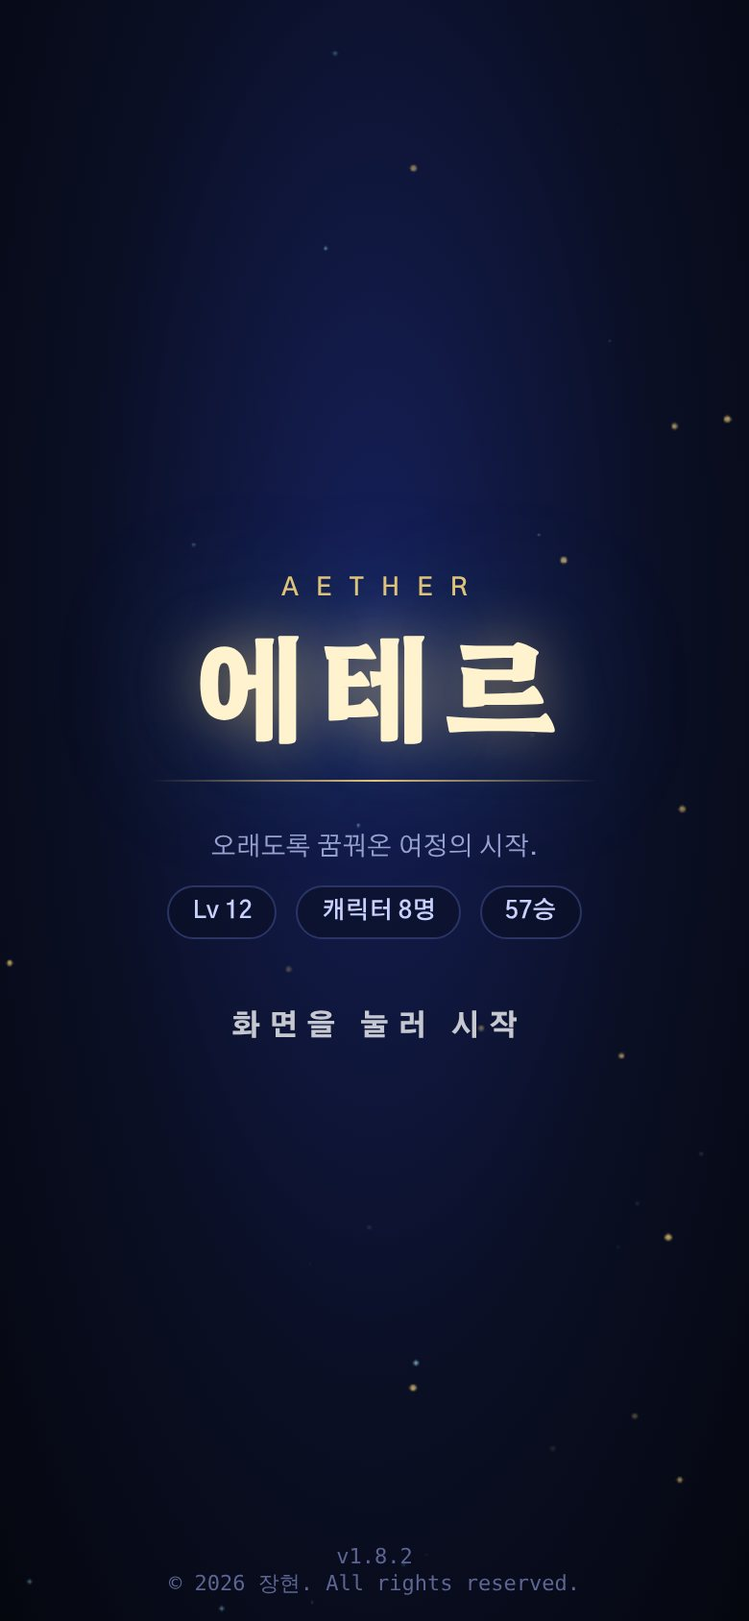
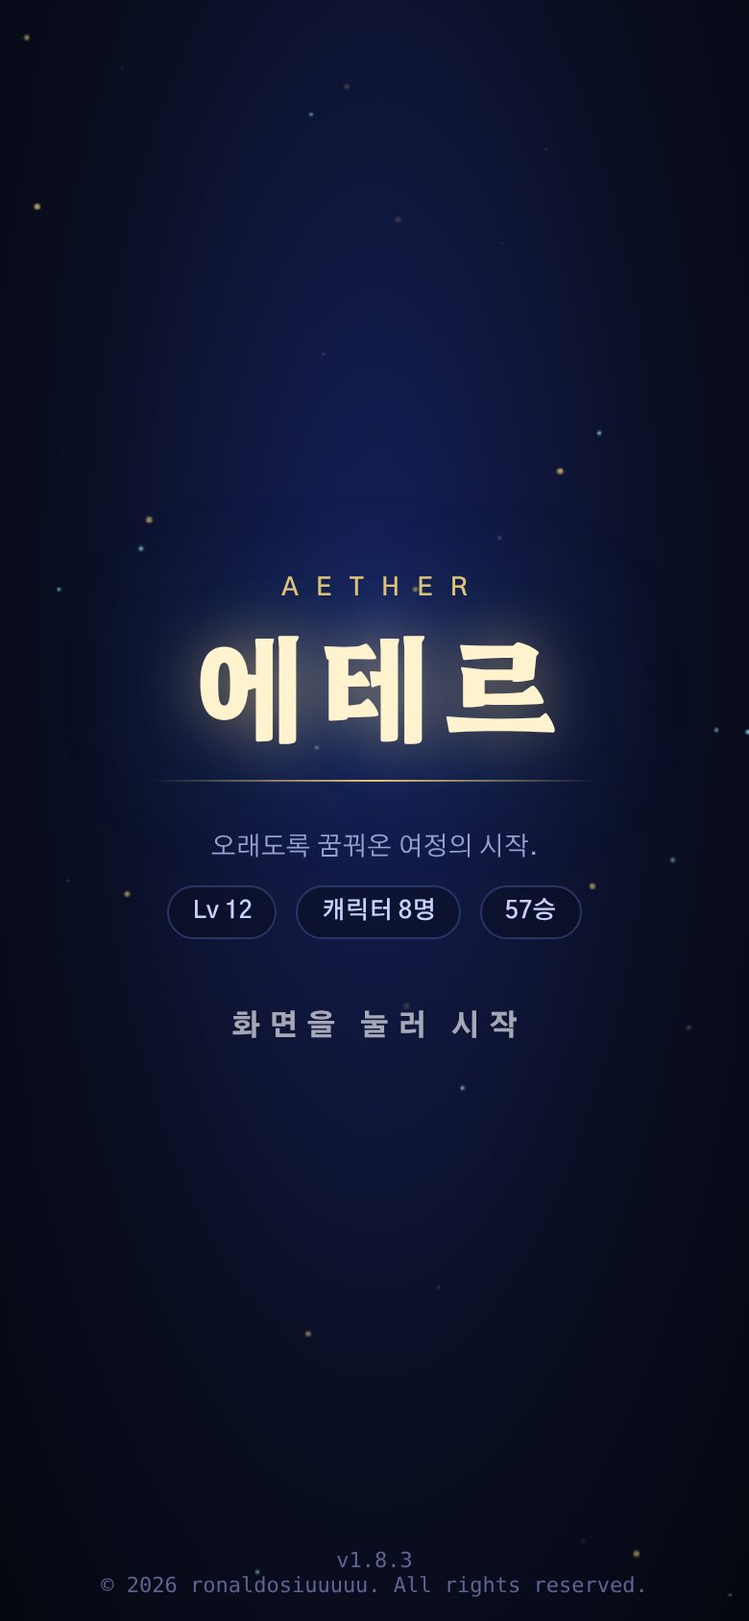
1.8.3: 보상 코드 원문 숨김, 저작권 표시 변경, README 정리
Claude-Session: https://claude.ai/code/session_018nyAW3XP9aVyA6V63xSJvx

diff --git a/game.js b/game.js
@@ -7,7 +7,7 @@
    5) 기록: 승패, 숙련, 업적(ACH에 한 줄). 이 기기에만 남는다(aetherProfile).
    6) 평가: 1대1에서 이기면 남은 체력으로 S·A·B·C. */
 /* 판 표기: 대규모 . 중규모 . 마이너(밸런스 · 버그). 고쳐 내보낼 때 여기와 PATCH(맨 아래), sw.js의 V, net.js의 APPV를 함께 올린다 */
-const VER='1.8.2';
+const VER='1.8.3';
 const PF=(()=>{ let d; try{ d=JSON.parse(localStorage.getItem('aetherProfile')||'null'); }catch(x){} d=d||{}; return Object.assign({w:0,l:0,streak:0,ch:{},ach:{},tw:{best:0,key:'',runs:0},mon:{},story:{},daily:{},dstreak:0,dwin:0,open:false,beat:{},own:{},re:{},coin:1500,star:0},d); })();
 for(const k of ['ei','vira']) PF.own[k]=PF.own[k]||1;
 const pfSave=()=>{ try{ localStorage.setItem('aetherProfile',JSON.stringify(PF)); }catch(x){} };
@@ -373,7 +373,7 @@ function tempRoll(){ const un=g=>gachaPool(g).filter(k=>!PF.own[k]); let pool=un
    +'.lvbar{display:flex;align-items:center;gap:8px;margin:-2px 2px 10px}.lvbar b{font:800 12.5px var(--mono);color:var(--gold);flex:none}.lvbar div{flex:1;height:5px;border-radius:3px;background:rgba(255,255,255,.08);overflow:hidden}.lvbar i{display:block;height:100%;background:linear-gradient(90deg,var(--gold),#fff3cf)}.lvbar span{font:11px var(--mono);color:var(--muted);flex:none}';
   document.head.appendChild(st);
   if(!/[?&]room=/.test(location.search)&&!/[?&]bc\b/.test(location.search)&&!navigator.webdriver){   /* 초대 링크로 들어올 때와 자동 시험에서는 건너뛴다 */ const L=lvInfo(),own=Object.keys(CH).filter(k=>!CH[k].re&&PF.own[k]).length,sv=twLoad(),el=document.createElement('div'); el.id='title';
-    el.innerHTML='<canvas></canvas><div class="en">AETHER</div><div class="tl">에테르</div><div class="rl"></div><div class="sb">오래도록 꿈꿔온 여정의 시작.</div><div class="pf"><span>Lv '+L.lv+'</span><span>캐릭터 '+own+'명</span><span>'+PF.w+'승</span>'+(sv?'<span>등반 '+sv.floor+'층 진행 중</span>':'')+'</div><div class="go2">'+(matchMedia('(pointer:fine)').matches?'눌러서 시작':'화면을 눌러 시작')+'</div><div class="vr">v'+VER+'<br>© 2026 장현. All rights reserved.</div>';
+    el.innerHTML='<canvas></canvas><div class="en">AETHER</div><div class="tl">에테르</div><div class="rl"></div><div class="sb">오래도록 꿈꿔온 여정의 시작.</div><div class="pf"><span>Lv '+L.lv+'</span><span>캐릭터 '+own+'명</span><span>'+PF.w+'승</span>'+(sv?'<span>등반 '+sv.floor+'층 진행 중</span>':'')+'</div><div class="go2">'+(matchMedia('(pointer:fine)').matches?'눌러서 시작':'화면을 눌러 시작')+'</div><div class="vr">v'+VER+'<br>© 2026 ronaldosiuuuuu. All rights reserved.</div>';
     document.body.appendChild(el); const cv=el.querySelector('canvas'),c=cv.getContext('2d'); let run=true,S=[]; const rz=()=>{ cv.width=innerWidth; cv.height=innerHeight; S=Array.from({length:Math.min(110,Math.round(innerWidth*innerHeight/9000))},()=>({x:Math.random()*cv.width,y:Math.random()*cv.height,r:Math.random()*1.4+.3,v:Math.random()*.25+.05,p:Math.random()*6.28})); }; rz(); addEventListener('resize',rz);
     const tick=t=>{ if(!run) return; c.clearRect(0,0,cv.width,cv.height); for(const s of S){ s.y-=s.v; if(s.y<-4){ s.y=cv.height+4; s.x=Math.random()*cv.width; } c.globalAlpha=.35+.45*Math.sin(t/900+s.p); c.fillStyle=s.r>1.2?'#e3c377':'#9fe9ff'; c.beginPath(); c.arc(s.x,s.y,s.r,0,7); c.fill(); } requestAnimationFrame(tick); }; requestAnimationFrame(tick);
     const go=()=>{ if(el.classList.contains('out')) return; el.classList.add('out'); try{ if(typeof audioOn==='function') audioOn(); sfx('ui'); }catch(x){} setTimeout(()=>{ run=false; el.remove(); removeEventListener('resize',rz); },560); }; el.addEventListener('pointerup',go); addEventListener('keydown',function kd(e){ if(e.key==='Enter'||e.key===' '){ go(); removeEventListener('keydown',kd); } }); } }
@@ -425,7 +425,7 @@ PF.cnt=Object.assign({play:0,pull:0,claim:0,mw:0,raidw:0,sr:0,dmg:0,coop:0,cls:{
   achCheck({}); }
 
 /* ═════ 보상 코드 ═════ 기록 화면의 코드 칸에 적는다. 한 번만 듣는다 */
-const CODES={'호날두시우':{coin:15000}};
+const CODES={};   /* 코드 원문은 두지 않는다(아래 CODEH에 암호화한 값만) */
 function redeem(v){ const k=String(v||'').replace(/\s+/g,''),c=CODES[k]; if(!c) return false; PF.codes=PF.codes||{}; if(PF.codes[k]){ toast('이미 쓴 코드다'); return true; } PF.codes[k]=Date.now(); PF.coin+=c.coin||0; PF.star+=c.star||0; pfSave(); sfx('win'); toast('코드 보상 · 코인 +'+(c.coin||0).toLocaleString()+(c.star?' · 별무리 +'+c.star:''),4200); hubCard(); return true; }
 { const dr1=drawRec; drawRec=function(){ dr1(); const rs=$('rec-reset'); if(rs&&!$('code-in')) rs.insertAdjacentHTML('beforebegin','<h2>보상 코드</h2><div class="row"><input type="text" id="code-in" placeholder="코드를 적는다" autocomplete="off" style="flex:2"><button type="button" id="code-go">받기</button></div>'); };
   document.addEventListener('click',e=>{ if(!e.target.closest('#code-go')) return; const el=$('code-in'); if(!el) return; if(!el.value.trim()) return toast('코드를 적는다'); if(redeem(el.value)){ el.value=''; drawRec(); } else toast('없는 코드다'); });
@@ -471,7 +471,8 @@ document.addEventListener('click',e=>{ const t=e.target.closest('[data-re2]'); i
 const nickOf=()=>{ let v=''; try{ v=localStorage.getItem('aetherName')||''; }catch(x){} return (v||($('n-name')&&$('n-name').value)||'').trim().slice(0,13)||'나'; };
 /* ── 패치 내역: 새 판을 내보낼 때 맨 위에 한 덩이를 더한다 ── */
 const PATCH=[
- ['1.8.2','2026-11',['보상 코드 「이계의눈과마주하라」: 닉네임을 한 번 다시 정할 수 있다(최대 13자).']],
+ ['1.8.3','2026-11',['보상 코드 처리 방식을 정리했다.','저작권 표시를 바꿨다.']],
+ ['1.8.2','2026-11',['새 보상 코드 추가.']],
  ['1.8.1','2026-11',['레이드 보스가 받는 체력 비례(%) 피해: 소란 · 집결 50% · 결속 · 군주 25% · 위신 12.5%만 들어간다. 스킬 안의 체력 비례분과 따로 계산되는 최체비 · 잃체비 · 현체비 피해 모두 해당.']],
  ['1.8.0','2026-11',['모든 플레이 기록을 한 번 초기화했다(코인 · 캐릭터 · 전적 · 업적 · 등반 · 이야기 · 닉네임). 조합 캐릭터와 화면 · 소리 설정은 남는다.','뽑기 확률: 고화 75 · 서사 22 · 전설 3.','닉네임은 처음 한 번 정하면 바꿀 수 없다.']],
  ['1.7.2','2026-11',['별무리의 흔적으로 원하는 캐릭터를 골라 데려오던 것을 없앴다.','대신 「별무리 뽑기」: 등급을 고르면 그 등급에서 아직 없는 캐릭터 하나가 무작위로 나온다. 값은 고화 30 · 서사 90 · 전설 240(예전 5 · 15 · 40). 가방 → 별무리 뽑기.']],
@@ -525,20 +526,20 @@ function achScreen(){ const old=document.getElementById('achv'); if(old) old.rem
   const bs1=backStep; backStep=function(){ const k=document.getElementById('achv'); if(k){ k.remove(); return true; } return bs1(); }; }
 
 /* ════════════════ 1.2.0 ════════════════ */
-/* ── 보상 코드 셋: 비요가른(코인 15000) · 일곱 별의 화신(별무리 40) · 만마의 궁전(모두 열기 켬/끔). 띄어쓰기는 없어도 된다 ── */
-delete CODES['호날두시우']; Object.assign(CODES,{'비요가른':{coin:15000},'일곱별의화신':{star:40},'만마의궁전':{palace:1}});
-PF.codes=PF.codes||{}; if(PF.codes['호날두시우']&&!PF.codes['비요가른']){ PF.codes['비요가른']=PF.codes['호날두시우']; delete PF.codes['호날두시우']; }
-/* 모두 열기 단추는 없앴다. 예전에 단추로 열어 둔 것은 뽑기 방식으로 돌린다(만마의 궁전으로 연 것만 남는다) */
+/* ── 보상 코드: 원문은 코드에 두지 않는다. 아래 1.8.3 블록의 CODEH(암호화한 값)만 본다 ── */
+
+PF.codes=PF.codes||{};
+/* 모두 열기 단추는 없앴다. 예전에 단추로 열어 둔 것은 뽑기 방식으로 돌린다(보상 코드로 연 것만 남는다) */
 if(PF.open&&!PF.palace){ PF.open=false; pfSave(); }
-{ const rd0=redeem; redeem=function(v){ const k=String(v||'').replace(/\s+/g,''); if(k!=='만마의궁전') return rd0(v);
-    PF.open=!PF.open; PF.palace=PF.open?1:0; pfSave(); sfx('win'); toast(PF.open?'만마의 궁전 · 모든 캐릭터가 열렸다 (한 번 더 적으면 닫힌다)':'만마의 궁전 · 닫혔다. 다시 뽑기 방식이다',4200);
-    if(!PF.open&&locked(kOf('me'))){ sel.me='ei'; sel.meR=false; } drawSel(); hubCard(); if(typeof drawBag==='function') drawBag(); return true; }; }
+
+
+
 
 /* ── 가방 탭: 뽑기 · 파편 · 재림 · 숙련 · 데려오기를 한곳에 ── */
 function giveShard(k,n){ PF.shard=PF.shard||{}; PF.dup=PF.dup||{}; PF.shard[k]=(PF.shard[k]||0)+n; let got=''; while(PF.shard[k]>=SHARDN){ PF.shard[k]-=SHARDN; if(PF.own[k]){ PF.dup[k]=(PF.dup[k]||0)+1; got=' (중복 +1)'; } else { PF.own[k]=Date.now(); got=' (캐릭터 획득)'; } } return CH[k].name.split(', ')[1]+' 파편 +'+n+got; }
 function drawBag(){ const el=$('bag'); if(!el) return; const pb=(v,m,col)=>'<div class="mbar"><i style="width:'+Math.min(100,Math.round(100*v/m))+'%;background:'+(col||'var(--aether)')+'"></i></div>',nm=k=>esc(CH[k].name.split(', ')[1]);
   const base=Object.keys(CH).filter(k=>!CH[k].re&&!CH[k].built&&!CH[k].custom),own=base.filter(k=>PF.own[k]);
-  let h='<h2>보유</h2><div class="pl"><b>코인 '+PF.coin.toLocaleString()+'</b><span style="color:var(--muted)">별무리의 흔적 '+PF.star+'</span></div><div class="pl"><b>캐릭터 '+own.length+' / '+base.length+'</b><span style="color:var(--muted)">재림 '+Object.keys(PF.re||{}).length+'명</span></div>'+(PF.open?'<p class="note">만마의 궁전이 열려 있다. 지금은 모든 캐릭터를 쓸 수 있다.</p>':'');
+  let h='<h2>보유</h2><div class="pl"><b>코인 '+PF.coin.toLocaleString()+'</b><span style="color:var(--muted)">별무리의 흔적 '+PF.star+'</span></div><div class="pl"><b>캐릭터 '+own.length+' / '+base.length+'</b><span style="color:var(--muted)">재림 '+Object.keys(PF.re||{}).length+'명</span></div>'+(PF.open?'<p class="note">모든 캐릭터가 열려 있다(보상 코드).</p>':'');
   h+='<h2>뽑기</h2><div class="row"><button type="button" data-pull="1"'+(PF.coin<PULL?' style="opacity:.5"':'')+'>1번 뽑기<small style="display:block;font-size:10.5px;opacity:.75">코인 '+PULL.toLocaleString()+'</small></button><button type="button" data-pull="10"'+(PF.coin<PULL10?' style="opacity:.5"':'')+'>10번 뽑기<small style="display:block;font-size:10.5px;opacity:.75">코인 '+PULL10.toLocaleString()+' · 서사 이상 하나 보장</small></button></div>';
   h+='<p class="note" style="white-space:pre-line">처음 나온 캐릭터는 그 자리에서 바로 얻는다.\n이미 가진 캐릭터가 나오면 파편이 3~5개 나온다. 파편 '+SHARDN+'개는 \'중복\' 하나가 되고, 재림에 쓴다.\n확률: '+GRATE.map(g=>g[0]+' '+g[1]+'%').join(' · ')+' (신화 · 히든은 나오지 않는다) · 전설 파편 보장까지 '+Math.max(0,PITY-(PF.pity||0))+'번</p>';
   const S=Object.keys(PF.shard||{}).filter(k=>CH[k]&&PF.shard[k]>0).sort((a,b)=>PF.shard[b]-PF.shard[a]),D=Object.keys(PF.dup||{}).filter(k=>CH[k]&&PF.dup[k]>0);
@@ -613,7 +614,7 @@ const bagData=()=>{ const base=Object.keys(CH).filter(k=>!CH[k].re&&!CH[k].built
    R:own.filter(k=>CH[k+'_r']&&!PF.re[k]).sort((a,b)=>(reNeed(b).ok-reNeed(a).ok)||(((PF.ch[b]||{}).w||0)+(PF.dup[b]||0)*5)-(((PF.ch[a]||{}).w||0)+(PF.dup[a]||0)*5)),L:Object.entries(PF.ch).filter(x=>CH[x[0]]).sort((a,b)=>b[1].w-a[1].w)}; };
 drawBag=function(){ const el=$('bag'); if(!el) return; const B=bagData(),t=(id,name,sub,n)=>'<button type="button" class="tool" data-bag="'+id+'">'+(n?'<i>'+n+'</i>':'')+'<b>'+name+'</b><small>'+sub+'</small></button>';
   el.innerHTML='<div class="wal"><div><b>'+PF.coin.toLocaleString()+'</b><small>코인</small></div><div><b>'+PF.star+'</b><small>별무리의 흔적</small></div><div><b>'+B.own.length+' / '+B.base.length+'</b><small>캐릭터</small></div></div>'
-   +(PF.open?'<p class="note">만마의 궁전이 열려 있다. 지금은 모든 캐릭터를 쓸 수 있다.</p>':'')
+   +(PF.open?'<p class="note">모든 캐릭터가 열려 있다(보상 코드).</p>':'')
    +'<h2>뽑기</h2><div class="pullrow"><button type="button" data-pull="1"'+(PF.coin<PULL?' class="low"':'')+'><b>1번 뽑기</b><small>코인 '+PULL.toLocaleString()+'</small></button><button type="button" data-pull="10"'+(PF.coin<PULL10?' class="low"':'')+'><b>10번 뽑기</b><small>코인 '+PULL10.toLocaleString()+' · 서사 이상 보장</small></button></div>'
    +'<p class="sub" style="margin:8px 2px 0">처음 나온 캐릭터는 바로 얻는다 · 가진 캐릭터는 파편 3~5개 · 전설 파편 보장까지 '+Math.max(0,PITY-(PF.pity||0))+'번</p>'
    +'<h2>가방</h2><div class="bagg">'+t('sh','파편',B.S.length?B.S.length+'명의 파편을 모으는 중':'아직 없다',B.S.filter(k=>PF.shard[k]>=SHARDN-2).length?'곧 '+B.S.filter(k=>PF.shard[k]>=SHARDN-2).length:'')
@@ -1199,13 +1200,30 @@ document.addEventListener('click',e=>{ const b=e.target.closest('[data-sg],[data
   new MutationObserver(lock).observe(document.body,{childList:true}); /* 닉네임 창이 닫히면 바로 잠근다 */
   const st=document.createElement('style'); st.textContent='#n-name.locked{opacity:.75;cursor:not-allowed}'; document.head.appendChild(st); }
 
-/* ════ 1.8.2 보상 코드 · 이계의눈과마주하라: 닉네임을 한 번 다시 정한다(2~13자). 새 이름을 정해야 코드가 쓰인 것으로 친다 ════ */
-CODES['이계의눈과마주하라']={rename:1};
+/* ════ 1.8.2 닉네임 다시 정하기(보상 코드로 연다, 2~13자). 새 이름을 정해야 코드가 쓰인 것으로 친다 ════ */
 function renameScreen(){ const old=document.getElementById('renv'); if(old) old.remove(); const d=document.createElement('div'); d.className='overlay'; d.id='renv'; d.style.zIndex=46; const cur=nickOf();
   d.innerHTML='<div class="wrap">'+head('RENAME','닉네임 다시 정하기','지금 · '+esc(cur))+'<div class="row"><input type="text" id="rn-in" maxlength="13" placeholder="새 닉네임 (2~13자)" autocomplete="off" style="flex:1;height:52px;font-size:17px;text-align:center"></div><p class="note">이 코드로 딱 한 번 바꿀 수 있다. 바꾼 뒤에는 다시 바꿀 수 없다.</p><div class="dock"><button class="go" id="rn-ok" type="button">이 이름으로 바꾼다</button><button class="ghost" id="rn-no" type="button">그만둔다</button></div></div>';
   document.body.appendChild(d); const inp=d.querySelector('#rn-in');
   d.querySelector('#rn-no').onclick=()=>d.remove();
-  d.querySelector('#rn-ok').onclick=()=>{ const v=inp.value.trim().slice(0,13); if(v.length<2) return toast('닉네임은 2자 이상'); if(v===cur) return toast('지금 이름과 같다'); try{ localStorage.setItem('aetherName',v); }catch(x){} PF.codes=PF.codes||{}; PF.codes['이계의눈과마주하라']=Date.now(); pfSave(); const n=$('n-name'); if(n){ n.value=v; n.readOnly=true; } if(NET.client||NET.host) try{ NET.pick(); }catch(x){} d.remove(); sfx('win'); toast('닉네임을 바꿨다 · '+v,3000); };
+  d.querySelector('#rn-ok').onclick=()=>{ const v=inp.value.trim().slice(0,13); if(v.length<2) return toast('닉네임은 2자 이상'); if(v===cur) return toast('지금 이름과 같다'); try{ localStorage.setItem('aetherName',v); }catch(x){} PF.codes=PF.codes||{}; PF.codes[CODE_RENAME]=Date.now(); pfSave(); const n=$('n-name'); if(n){ n.value=v; n.readOnly=true; } if(NET.client||NET.host) try{ NET.pick(); }catch(x){} d.remove(); sfx('win'); toast('닉네임을 바꿨다 · '+v,3000); };
   inp.addEventListener('keydown',e=>{ if(e.key==='Enter'&&!e.isComposing) d.querySelector('#rn-ok').click(); }); setTimeout(()=>inp.focus(),50); }
-{ const rd2=redeem; redeem=function(v){ const k=String(v||'').replace(/\s+/g,''); if(k!=='이계의눈과마주하라') return rd2(v); PF.codes=PF.codes||{}; if(PF.codes[k]){ toast('이미 쓴 코드다'); return true; } renameScreen(); return true; };
+{
   const bs6=backStep; backStep=function(){ const r=document.getElementById('renv'); if(r){ r.remove(); return true; } return bs6(); }; }
+
+/* ════════════════ 1.8.3 보상 코드: 원문 없이 암호화한 값(SHA-256 앞 24자리)만 둔다 ════════════════ */
+function sha256(str){ const K=[0x428a2f98,0x71374491,0xb5c0fbcf,0xe9b5dba5,0x3956c25b,0x59f111f1,0x923f82a4,0xab1c5ed5,0xd807aa98,0x12835b01,0x243185be,0x550c7dc3,0x72be5d74,0x80deb1fe,0x9bdc06a7,0xc19bf174,0xe49b69c1,0xefbe4786,0x0fc19dc6,0x240ca1cc,0x2de92c6f,0x4a7484aa,0x5cb0a9dc,0x76f988da,0x983e5152,0xa831c66d,0xb00327c8,0xbf597fc7,0xc6e00bf3,0xd5a79147,0x06ca6351,0x14292967,0x27b70a85,0x2e1b2138,0x4d2c6dfc,0x53380d13,0x650a7354,0x766a0abb,0x81c2c92e,0x92722c85,0xa2bfe8a1,0xa81a664b,0xc24b8b70,0xc76c51a3,0xd192e819,0xd6990624,0xf40e3585,0x106aa070,0x19a4c116,0x1e376c08,0x2748774c,0x34b0bcb5,0x391c0cb3,0x4ed8aa4a,0x5b9cca4f,0x682e6ff3,0x748f82ee,0x78a5636f,0x84c87814,0x8cc70208,0x90befffa,0xa4506ceb,0xbef9a3f7,0xc67178f2];
+  const b=Array.from(new TextEncoder().encode(str)),l=b.length*8; b.push(0x80); while(b.length%64!==56) b.push(0); for(let i=7;i>=0;i--) b.push(i>3?0:(l>>>(i*8))&255);
+  let H=[0x6a09e667,0xbb67ae85,0x3c6ef372,0xa54ff53a,0x510e527f,0x9b05688c,0x1f83d9ab,0x5be0cd19]; const r=(x,n)=>(x>>>n)|(x<<(32-n)),w=new Array(64);
+  for(let o=0;o<b.length;o+=64){ for(let i=0;i<16;i++) w[i]=(b[o+i*4]<<24|b[o+i*4+1]<<16|b[o+i*4+2]<<8|b[o+i*4+3])>>>0; for(let i=16;i<64;i++){ const s0=r(w[i-15],7)^r(w[i-15],18)^(w[i-15]>>>3),s1=r(w[i-2],17)^r(w[i-2],19)^(w[i-2]>>>10); w[i]=(w[i-16]+s0+w[i-7]+s1)>>>0; }
+    let [a,bb,c,d,e,f,g2,h]=H; for(let i=0;i<64;i++){ const t1=(h+(r(e,6)^r(e,11)^r(e,25))+((e&f)^(~e&g2))+K[i]+w[i])>>>0,t2=((r(a,2)^r(a,13)^r(a,22))+((a&bb)^(a&c)^(bb&c)))>>>0; h=g2; g2=f; f=e; e=(d+t1)>>>0; d=c; c=bb; bb=a; a=(t1+t2)>>>0; }
+    H=H.map((x,i)=>(x+[a,bb,c,d,e,f,g2,h][i])>>>0); } return H.map(x=>x.toString(16).padStart(8,'0')).join(''); }
+const codeKey=v=>sha256('aether|'+String(v||'').replace(/\s+/g,'')).slice(0,24);
+const CODEH={'152d17f3b081ecf2410acd02':{coin:15000},'1d9a64f3cd9d8565d89eb9c6':{star:40},'b311b59e8c65142c24e4115d':{palace:1},'83f1671a476f11c6475e2b70':{rename:1}},CODE_RENAME='83f1671a476f11c6475e2b70';
+/* 예전에 원문으로 적어 둔 '쓴 코드' 기록을 암호화한 값으로 옮긴다(아주 옛 코드는 첫 코인 코드로 친다) */
+{ PF.codes=PF.codes||{}; let ch=false; for(const k of Object.keys(PF.codes)){ if(/^[0-9a-f]{24}$/.test(k)) continue; let h=codeKey(k); if(h==='deb6c2a784a77949da9bbf89') h='152d17f3b081ecf2410acd02'; if(!PF.codes[h]) PF.codes[h]=PF.codes[k]; delete PF.codes[k]; ch=true; } if(ch) pfSave(); }
+redeem=function(v){ const h=codeKey(v),c=CODEH[h]; if(!c) return false; PF.codes=PF.codes||{};
+  if(c.palace){ PF.open=!PF.open; PF.palace=PF.open?1:0; pfSave(); sfx('win'); toast(PF.open?'모든 캐릭터가 열렸다 (같은 코드를 한 번 더 적으면 닫힌다)':'닫혔다 · 다시 뽑기 방식이다',4200); if(!PF.open&&locked(kOf('me'))){ sel.me='ei'; sel.meR=false; } drawSel(); hubCard(); if(typeof drawBag==='function') drawBag(); return true; }
+  if(PF.codes[h]){ toast('이미 쓴 코드다'); return true; }
+  if(c.rename){ renameScreen(); return true; }
+  PF.codes[h]=Date.now(); PF.coin+=c.coin||0; PF.star+=c.star||0; pfSave(); sfx('win'); toast('코드 보상 · '+(c.coin?'코인 +'+c.coin.toLocaleString():'')+(c.coin&&c.star?' · ':'')+(c.star?'별무리 +'+c.star:''),4200); hubCard(); return true; };
+{ const q=$('q'); if(q) q.addEventListener('input',()=>{ if(CODEH[codeKey(q.value)]&&redeem(q.value)){ q.value=''; drawSel(); } }); }

diff --git a/sw.js b/sw.js
@@ -2,7 +2,7 @@
    - 앱 파일: 저장해 둔 것을 바로 쓰고, 뒤에서 새 것을 받아 둔다. 판(V)이 올라가면 화면이 알아서 새 판으로 다시 열린다.
    - 글꼴(구글): 한 번 받은 것은 저장해 두고 계속 쓴다.
    파일을 더하거나 빼면 FILES를 고치고 V의 숫자를 올린다. */
-const V='aether-1.8.2';
+const V='aether-1.8.3';
 const FILES=['./','bench.js','build.js','kits.js','wkits1.js','wkits2.js','pkits.js','foes.js','docboss.js','game.js','story2.js','raid.js','lore.js','forge.js','guide.js','net.js','peerjs.min.js','extra.js','cardtext6.js','brain.js','brain2.js','brain3.js','cardtext.js','cardtext2.js','cardtext3.js','cardtext4.js','cardtext5.js','chars.js','feel.js','text.js','flair.js','fxs.js','icons/apple-180.png','icons/icon-192.png','icons/icon-512.png','icons/maskable-512.png','index.html','relay.json','배포.md','jeon1.js','jeon2.js','jeon3.js','look.js','manifest.json','maps.js','rebirth.js','seosa1.js','seosa2.js','seosa3.js','sinhwa.js','team.js'];
 self.addEventListener('install',e=>{ e.waitUntil(caches.open(V).then(c=>c.addAll(FILES.map(f=>new Request(f,{cache:'reload'})))).then(()=>self.skipWaiting())); });
 self.addEventListener('activate',e=>{ e.waitUntil(caches.keys().then(ks=>Promise.all(ks.filter(k=>k!==V&&k!=='aether-fonts').map(k=>caches.delete(k)))).then(()=>self.clients.claim())); });

diff --git a/net.js b/net.js
@@ -15,7 +15,7 @@ function ser(v,d){ if(v===null||v===undefined) return undefined; const t=typeof 
 const loadPeer=()=>new Promise((ok,no)=>{ if(window.Peer) return ok(); const s=document.createElement('script'); s.src='peerjs.min.js'; s.onload=()=>window.Peer?ok():no(new Error('PeerJS')); s.onerror=()=>no(new Error('peerjs.min.js를 못 읽음')); document.head.appendChild(s); });
 const ROOM=c=>'aether-room-'+c;
 /* 서로 같은 판이어야 화면이 맞는다. 파일을 고쳐 내보낼 때 sw.js의 V와 함께 올린다 */
-const APPV=182;
+const APPV=183;
 /* Metered(무료 몫이 있는 중계 서비스)의 주소 묶음. 아이디·비밀번호만 적으면 이 주소가 들어간다 */
 const METERED='turn:standard.relay.metered.ca:80, turn:standard.relay.metered.ca:80?transport=tcp, turn:standard.relay.metered.ca:443, turns:standard.relay.metered.ca:443?transport=tcp';
 /* 길 찾기(STUN)는 여러 곳에 묻는다. 통신사 데이터끼리처럼 직접 길이 안 뚫리는 경우에는 중계 서버(TURN)가 있어야 하고, '함께' 화면에서 적어 넣을 수 있다 */

diff --git a/README.md b/README.md
@@ -11,7 +11,7 @@
 
 설치 없이 휴대폰 · PC 브라우저에서 바로 된다. 홈 화면에 추가하면 앱처럼 쓸 수 있다(PWA).
 
-![버전](https://img.shields.io/badge/버전-1.8.2-e3c377?style=flat-square) ![캐릭터](https://img.shields.io/badge/캐릭터-133명-7fe9ff?style=flat-square) ![레이드 보스](https://img.shields.io/badge/레이드_보스-31종-ff7d8c?style=flat-square) ![맵](https://img.shields.io/badge/맵-13개-8fd0a0?style=flat-square)
+![버전](https://img.shields.io/badge/버전-1.8.3-e3c377?style=flat-square) ![캐릭터](https://img.shields.io/badge/캐릭터-133명-7fe9ff?style=flat-square) ![레이드 보스](https://img.shields.io/badge/레이드_보스-31종-ff7d8c?style=flat-square) ![맵](https://img.shields.io/badge/맵-13개-8fd0a0?style=flat-square)
 
 </div>
 
@@ -69,89 +69,8 @@
 
 ---
 
-<details>
-<summary><b>개발자용: 파일 구성</b></summary>
-
-| 파일 | 내용 |
-|---|---|
-| index.html | 화면·메뉴·엔진(이동, 피해, 상태, 그리기, 소리, 입력) |
-| chars.js | 고화 26명 + 마나난·시먼·네르티나·밀리오 |
-| seosa1~3.js | 서사 29명 (seosa3 끝에 겉모습·진행·상태 표) |
-| jeon1~3.js | 전설 24명 (jeon3 끝에 겉모습·진행·상태 표) |
-| rebirth.js | 재림 32명 |
-| sinhwa.js | 신화 3명 + 재림 3명(아르트랑 맥스 · 여명의 훼광 아서 · 궁창의 혼재 아에르) |
-| extra.js | 뒤에 더한 12명: 듀크 · 울펜하임 · 테오르 · 알비온 · 키비 · 비비 · 스타트 + 히든 아몬 · 알론소 · 라사 · 천갈 · 나가토 (겉모습·상태·운용법 포함) |
-| team.js | 다인전에서 아군에게 주는 효과 |
-| look.js · fxs.js | 겉모습(몸·무기) · 스킬 연출과 소리 |
-| brain.js · brain2.js · brain3.js | 컴퓨터 운용법 |
-| cardtext*.js | 카드 원문(스킬 보기 화면용). cardtext6.js가 extra.js의 12명 |
-| maps.js | 맵 자료(크기·색·기둥·발판) |
-| feel.js | 타격감·스킬 윤곽선·속성 타격음·궁극기 경고(훅으로 붙인 덧붙임 파일) |
-| bench.js | 컴퓨터끼리 대전표(승률 재기) |
-| raid.js | 레이드의 보스 몬스터 셋(마석 골렘 · 초 거대 마석 골렘 · 여덟 머리의 뱀)과 전리품 |
-| lore.js | 세계관 글(노션 정리본에서 뽑음) |
-| forge.js · guide.js | 카드로 캐릭터 만들기 · 길잡이 |
-| `build.js` | 조합 캐릭터 만들기(스킬 네 칸 + 권능 3 + 특전 2 + 장비 3). 권능 `POWERS`(카드 권능은 손으로, 시험장 권능은 `[이름, 단계, 수치 묶음]` 한 줄), 장비 `GEAR`(무기 · 방어구 · 장신구, 공설~신화), 수치 묶음의 낱말은 `MODTXT` |
-| `kits.js` | 무기·권능 스킬 묶음의 틀(`defKit`). 키트의 스킬은 조합 캐릭터의 '가져오기'에 나오고, 같은 이름의 장비·권능을 달면 빈 단추(x1~x4)에 붙으며 패시브가 함께 온다 |
-| `wkits1.js` `wkits2.js` | 카드 무기의 스킬(2024~2025 · 2026). 수치는 카드 그대로, 정한 것은 각 키트의 `note` |
-| `pkits.js` | 카드의 활성 권능(神聖 - 힘 · 영웅 · 정복, 천변만화의 별 등) |
-| `foes.js` | 시험장에서 만든 적 25종(`MOBS`)과 보스 10종(`BOSSES`). 한 줄씩 적는 자료 꼴. 등반 보스 순서는 `TBOSS` |
-| `game.js` | 모험: 등반(보상 · 갈림길 · 상인 · 보스), 이야기(`STORY`), 오늘의 도전, 등급 해금(`NEEDS`), 기록 · 업적(`ACH`), 승리 평가. 이 기기에만 남는다(`aetherProfile`, `aetherTower`) |
-| net.js · peerjs.min.js | 친구와 함께(P2P 방). PeerJS 1.5.4(MIT)를 그대로 넣었다 |
-
-화면: 휴대폰 가로·세로, PC 모두 된다. 판을 시작할 때 화면이 넓으면 경기장이 눕고(38×26, 내가 왼쪽), 길면 선다(26×38, 내가 아래). 설정에서 방향을 자동·가로 고정·세로 고정으로 고른다.
-
-## 휴대폰에 앱으로 깔기 (PWA)
-
-https 주소로 올린 뒤 휴대폰 크롬(또는 삼성 인터넷)으로 열면 고르는 화면 아래에 '홈 화면에 앱으로 깔기' 단추가 뜬다(안 뜨면 브라우저 메뉴의 '홈 화면에 추가' / '앱 설치'). 깔고 나면 주소창 없이 전체 화면으로 뜨고, 인터넷이 없어도 돈다.
-
-- `manifest.json` 앱 이름·아이콘·전체 화면 선언, `sw.js` 오프라인 저장, `icons/` 아이콘.
-- 인터넷이 될 때는 늘 새 파일을 받아 쓰므로, 올려 둔 파일을 고치면 앱을 다시 열 때 바로 반영된다.
-- 파일을 새로 더하면 `sw.js`의 `FILES`에 이름을 적고 `V`의 숫자를 올린다.
-- 파일을 그냥 열거나(file://) http로 열면 앱으로 깔 수 없다. 게임은 그대로 돈다.
-
-## 화면 짜임 (앱 기준)
-
-- 고르는 화면은 네 쪽이다: 대전(방식·맵·실력) · 캐릭터(찾기·최근·등급·직업·무작위) · 함께(방) · 설정. 세로는 아래 탭, 가로는 왼쪽 탭, PC는 위 탭. 나·상대 칸과 싸우기 단추는 늘 보인다.
-- 뒤로 가기(안드로이드)는 열린 것부터 닫고, 싸우는 중에는 멈춘다. 싸우는 동안에는 화면이 꺼지지 않는다(되는 기기에서).
-- 설정에서 조작 단추 크기(작게~아주 크게)와 왼손 배치를 바꾼다. 알림은 아래에 잠깐 뜨는 쪽지(`toast()`)로 나온다.
-
-## 친구와 함께 (P2P 방)
-
-고르는 화면의 '친구와 함께'에서 한 사람이 방을 만들고, 나머지는 방 코드 네 글자로 들어온다. 모두 같은 주소(https로 올린 곳)를 열어야 한다.
-
-- 싸움은 방장 기기에서 돌아간다. 들어온 사람은 조작을 보내고, 방장이 1초에 15번 보내는 화면 상태를 받아 그린다. 그래서 들어온 쪽은 조작이 조금 늦게 먹는다.
-- 방장이 방식(1대1 · 3대3 · 5대5 · 점령전 · 대돌격) · 맵 · 컴퓨터 실력을 정하고 '싸우기'를 누르면 모두 시작한다. 사람이 모자란 자리는 컴퓨터가 채운다. 최대 10명.
-- 연결은 PeerJS의 공개 중계 서버로 서로를 찾은 뒤 기기끼리 바로 주고받는다(WebRTC). 통신사·공유기에 따라 연결이 안 될 수 있다.
-- 주소 뒤에 `?bc`를 붙여 열면 같은 브라우저의 탭끼리 붙는다(인터넷 없이 시험할 때).
-
-## 늘리는 법
-
-- **맵 더하기**: `maps.js`의 `MAPS`에 한 덩이를 적는다. 좌표는 세로 경기장 기준으로 한 번만 적으면 가로 화면에서는 엔진이 눕힌다. 고르는 화면 단추와 미리보기는 저절로 생긴다.
-- **놓을 수 있는 것**: 기둥 `pillar` · 상자 `crate`(부서짐) · 발판 `pad` · 문 `gate` · 폭풍 `storm`. 점령 지점 `cap`은 점령전에서 엔진이 가운데에 놓는다.
-- **맵에 놓는 것 더하기**: `index.html`의 `FEAT`(종류: `draw`, 필요하면 `step`)와 `PADS`(발판: 이름·색·`speed` 또는 `every`+`tick`)에 한 줄.
-- **설정 더하기**: `SETTINGS`에 한 줄. 단추 줄과 저장이 저절로 붙고, 값은 `OPT.이름`으로 읽는다.
-- **덧붙임 파일**: 엔진을 고치지 않고 `on('hit',fn)`처럼 훅을 건다. 훅은 `begin` `end` `hit` `kill` `cast` `step` `draw:world` `draw:screen`. `feel.js`가 본보기이고, 새 파일은 `index.html` 맨 아래에 `<script>` 한 줄로 더한다.
-- **캐릭터 더하기**: 예전과 같다. `CH`에 캐릭터, `CARDTEXT`에 원문, `LOOK`에 겉모습, `BRAIN`에 운용법.
-
-서버 기준값(설정에서 바꿈): 달리기 5.6칸/초 · 기본 공격 0.5초마다 · 손이 닿는 거리 3칸(부채꼴 좌우 37.5도) · 근접·범위 스킬 기본 넉백 0.5칸(카드에 밀치기가 적힌 스킬은 적힌 대로, 투사체는 없음).
-
-규칙: 수치는 카드 원문 그대로. 카드에 없어 정한 것은 각 캐릭터의 `note`에 적는다.
-
-
-## 올리기 · 앱으로 깔기 · 여러 기기
-
-`배포.md`에 차례대로 적었다. 파일을 고쳐 다시 올릴 때는 `sw.js`의 `V`와 `net.js`의 `APPV`를 함께 올린다(열려 있는 앱이 알아서 새 판으로 바뀌고, 판이 다른 기기끼리는 방에 들어갈 때 알려 준다).
-
-
-## 버전
-
-`x.y.z` — 맨 앞은 대규모 패치, 가운데는 어느 정도 규모가 있는 패치, 맨 뒤는 마이너 패치(밸런스 조정 · 버그 수정). 내보낼 때 `game.js`의 `VER`과 `PATCH`(패치 내역, 들어올 때 뜨는 창), `sw.js`의 `V`, `net.js`의 `APPV`(서로 같은 판인지 확인하는 숫자)를 함께 올린다.
-
-
-</details>
 
 ## 저작권
 
-© 2026 장현. All rights reserved.
-맥스 세계관과 캐릭터 · 카드의 저작권은 장현에게 있다. 코드와 그림을 허락 없이 가져다 쓰거나 다시 배포할 수 없다.
+© 2026 ronaldosiuuuuu. All rights reserved.
+게임과 캐릭터 · 카드 · 코드 · 그림의 저작권은 ronaldosiuuuuu에게 있다. 허락 없이 가져다 쓰거나 다시 배포할 수 없다.

diff --git a/CHANGELOG.md b/CHANGELOG.md
@@ -2,9 +2,14 @@
 
 게임 안 「패치 내역」과 같은 내용이다. 버전마다 [릴리스](https://github.com/ronaldosiuuuuu/Ater/releases)도 있다.
 
+## 1.8.3 · 2026-11
+
+- 보상 코드 처리 방식을 정리했다.
+- 저작권 표시를 바꿨다.
+
 ## 1.8.2 · 2026-11
 
-- 보상 코드 (코드 이름은 게임 안에서): 닉네임을 한 번 다시 정할 수 있다(최대 13자).
+- 새 보상 코드 추가.
 
 ## 1.8.1 · 2026-11
 
